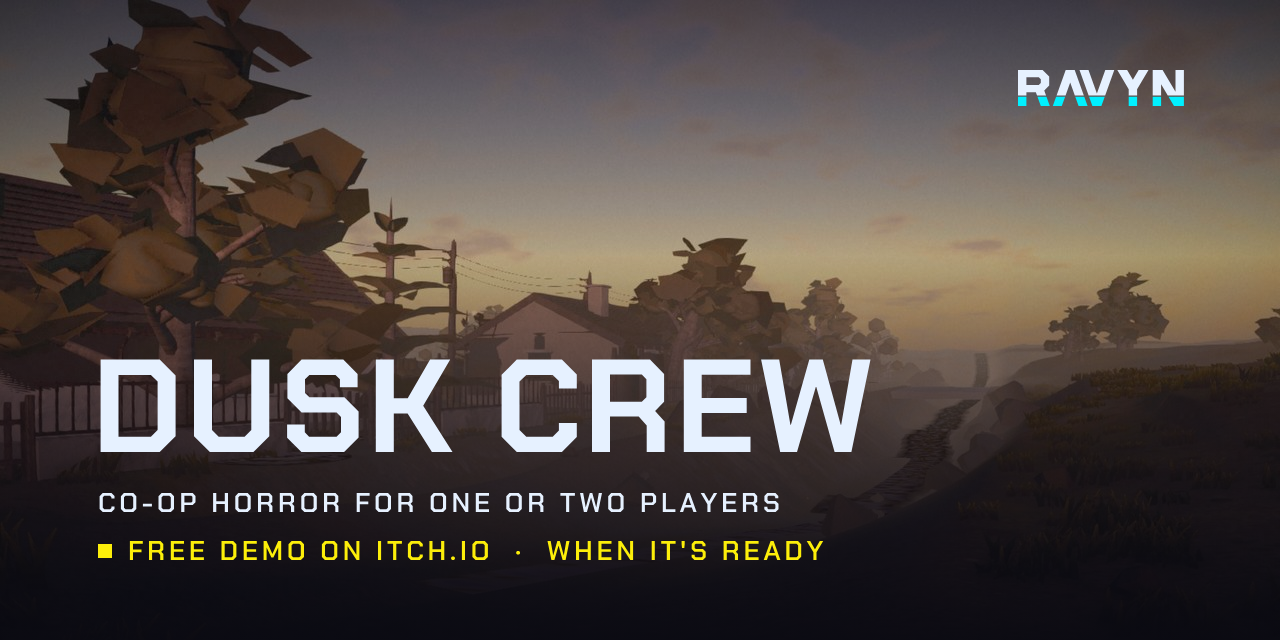
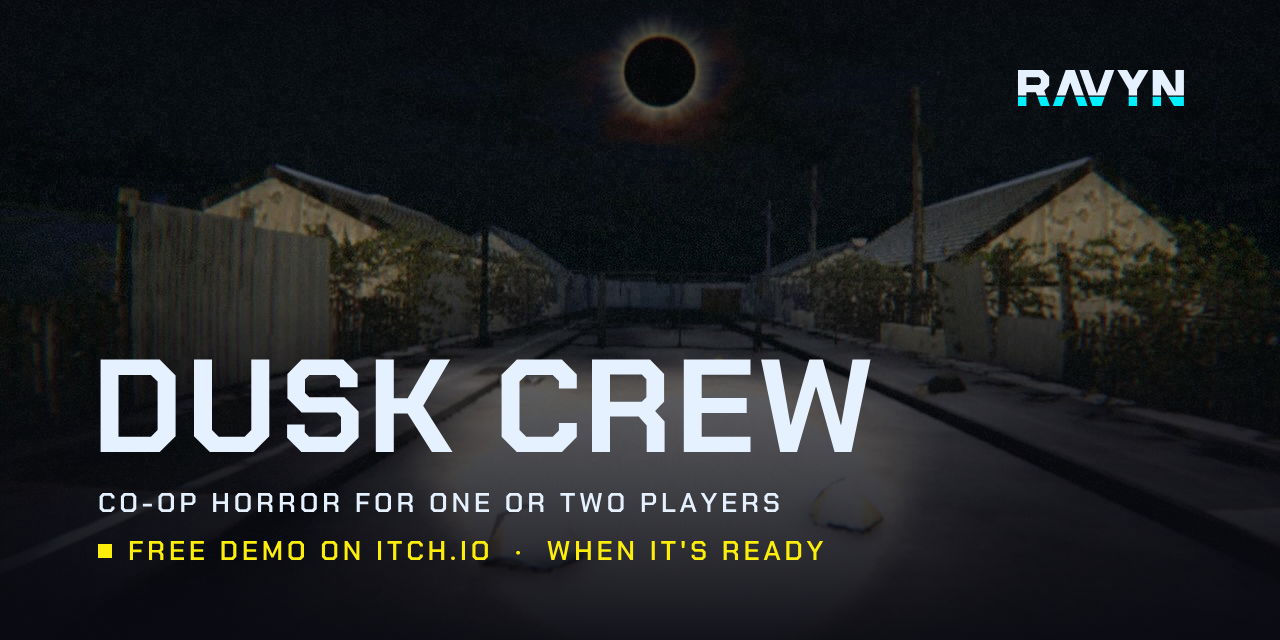
Showcase v2: clean WIP footage, night loop, system cards, spoiler zone, docs
Media is only post-sweep footage, checked frame by frame: no person, no old hands, no Tripo asset in frame. Pre-sweep stills removed. Diagrams and banners drawn in code.

diff --git a/README.md b/README.md
@@ -1,4 +1,4 @@
-<img src="media/shots/lookout.jpg" alt="Dusk Crew, work in progress: view over fields and a fence line toward the houses of the district at golden hour." width="100%">
+<img src="media/gif/hero.gif" alt="Dusk Crew, work-in-progress footage through the bodycam. A quiet street by day under a pale sky. Then a floating axe on a cyan beam chops a tree until wood chips fly. Then the same street at night, lit only by the pool of the crew's lamp, with a black moon overhead." width="100%">
 
 # Dusk Crew
 
@@ -6,46 +6,92 @@
 
 Every light in the valley went out. You are the line crew sent back to turn them on.<br>
 By day you build light. By night you walk out of it to bring people home.<br>
-Something is watching from the dark, and the people it takes do not stay gone.
+Something is watching from the dark.
 
-## Features
+## How a night works
 
-### Build by day, survive by night
+<img src="media/svg/how-a-night-works.svg" alt="How a night works, four steps that loop. Day: build and wire, light the lamps before the sun goes. Dusk: the light fades, something watches from the dark. Night: walk out of the light and bring people home. Dawn: back to the light, count who made it, then a new day." width="100%">
 
-Daylight is for work: fell trees, gather scrap, craft tools, and wire up lamp posts and a generator. When the sun goes, what you built is the only safe ground. You go out anyway, because people are sleepwalking in the dark and you are the crew that brings them home.
+## Systems
 
-<p>
-  <img src="media/shots/golden-hour.jpg" alt="A street at golden hour: a house, a tree and a creek running through low fog." width="410">
-  <img src="media/shots/black-moon.jpg" alt="The same street at night under a black moon with a thin white corona. The houses are barely lit." width="410">
-</p>
+### Light and dark
+
+<img src="media/gif/light-and-dark.gif" alt="The same street walked twice, side by side. On the left by day: bright road, houses and power lines. On the right by night: black sky and a black moon, the road visible only inside the lamp's pool." width="100%">
+
+The same street by day and by night. After dark, the light you carry and the lamps you build are the only safe ground.<br>
+Lamps throw pools of light with dark gaps between them. The gaps are where the fear lives.
+
+### The cabinet
+
+<img src="media/still/cabinet-panel.png" alt="Greybox test: an open electrical panel with a main switch, a fuse, two contactors and coloured wires to numbered terminals. A line on the panel reads: Game rules. Not instructions." width="100%">
+
+One player wires the panel with their back to the street. The other guards them with the lamp and reads the wiring list off the cuff, because the Wirer cannot see it. Get it right and the street lamps come on one after another.<br>
+**Footage coming:** the two-player take is next. This is a greybox still. The panel is game rules, not instructions.
+
+### The Kinetic Rig
+
+<img src="media/gif/kinetic-rig.gif" alt="First-person view at dusk. An axe floats on a cyan beam from the wrist cuff and strikes a tree by itself. Wood chips fly." width="100%">
+
+Your tools float on a beam from the wrist cuff. Send the axe off to fell a tree on its own, then lift the logs home with the same beam.<br>
+In development. Not in the friend-test build yet.
+
+### The bodycam
+
+<img src="media/gif/bodycam.gif" alt="The same night walk twice, side by side. Left: Standard, with grain, lens bend and head sway. Right: Comfort, calmer and steadier." width="100%">
+
+You see everything through the helmet camera: grain, lens bend, sway. Human faces are mosaicked, the way footage is censored before release.<br>
+Standard on the left. Comfort on the right, for players who want a steadier picture. Every effect has its own slider.
 
 ### The creature
 
-It watches first. At dusk you catch its eyes on a perch above the street, then nothing. It takes people in the gaps your light does not reach, and nothing you carry can kill it. Light is the only thing it respects.
+It is there from the first minute. It freezes when you look at it and moves when you look away.<br>
+It cannot enter light: not the lamp's beam, not a lit lamp post. It waits at the edge and goes for whoever is left in the dark. A teammate's beam drives it off. You cannot kill it.
+
+## Spoiler zone
+
+<img src="media/svg/spoiler-banner.svg" alt="Bodycam warning: a red REC dot, a running timecode and a stamp reading RESTRICTED FOOTAGE. Spoilers below: the creature's full look and the Returned. Content note: blood and gore, filtered by the bodycam." width="100%">
+
+<details>
+<summary>I've been warned. Show me.</summary>
+
+### The creature, stage 1
+
+<img src="media/spoiler/creature-stage1.png" alt="The creature's body as black silhouettes on white: front, three-quarter and top views. Low and wide on four long jointed legs, with two long feelers curving ahead of the head. Bottom right: the same shape at night in the game, 8 m away, against a white test card." width="100%">
+
+Stage 1 of the creature's body: the silhouette. Our own model, built by script, and the first stage to pass its review. Work in progress.<br>
+Its two feelers never stop. They sweep ahead, tap the walls and turn toward any sound you make. A close-up is coming.
 
 ### The Returned
 
-Anyone the creature takes can come back, and they come back wrong: black blades tear out of the body, and it hunts whoever watched it happen. Strong light melts the blades for about two seconds. That is your window to hit it. Then you burn what is left.
+The creature takes your partner. Later something walks back up the road in your partner's suit, one foot dragging, head too far to the side.<br>
+Close up, black blades tear out of the back and the arms. Hit it with the beam and the blades melt back for two seconds. That is your window.<br>
+Words only for now. Footage comes when there is a clean capture.
 
-Everything is seen through a helmet camera. Human faces are mosaicked, the way footage is censored before release. The creature's never is.
+</details>
 
-### Holo-print
+## On the drawing board
 
-Tools are printed, not drawn. The wrist cuff projects a grid, traces the tool as a wireframe line by line, fills it with voxels, and it lands in your hands as worn wood and steel.
+> Design only. None of this is built.
 
-### Kinetic Rig
+**MAKER.** Real electronics inside the game: boards, sensors, LEDs, relays, motors. What works in the game works for real. Every 5 V and 12 V circuit can be exported as a real wiring diagram, parts list and code. Anything that would not work for real is marked "game only". The mains side stays game rules, not instructions. Lights you build help but never solve the night: the creature only flinches at them.
 
-In development for the demo. Your tools float: a beam from the cuff tethers the axe beside you. Clench to strike. Flick to send it off to fell a tree on its own while you gather scrap. Lift the logs with the same beam and carry them home. It runs on a battery, and the creature can see its glow.
+<img src="media/svg/relay-vs-mosfet.svg" alt="Design only, not built. Two ways a MAKER build switches a load. Relay, for the AC side in the game: board pin, transistor, relay coil with a flyback diode across it; the contacts switch an AC lamp, and that side is game rules, not instructions. MOSFET, for DC loads: plus 12 volts, LED strip, N-channel MOSFET, ground; a board pin drives the gate, with a 10 kilo-ohm pull-down." width="100%">
 
-## Screenshots
-
-<p>
-  <img src="media/shots/dusk.jpg" alt="The same view minutes later: a pink and violet dusk sky, fog settling on the fields." width="820">
-</p>
+**LineNet.** An in-game network for the crew. It only works where you have restored the power.
 
 ## Devlog
 
-**20 Nov 2026 — Tools leave the hands.** First step of the Kinetic Rig: an axe floats on a tether from the cuff and lands its first strikes in a greybox test. Sending it off to work alone is next.
+**25 Nov 2026 — The creature's shape.** Stage 1 of its new body, the silhouette, passed its review. Next: its main forms.
+
+**25 Nov 2026 — The cabinet works with two.** In a two-player network test, one player wired and one read, and the panel came out the same on both machines. Joining late and a dropped Wirer both hold.
+
+**25 Nov 2026 — The bodycam look.** A fifth pass on the camera: grain, lens, light pools and the Comfort preset. Shown above as work in progress.
+
+**25 Nov 2026 — Holo-Glass HUD.** Still mock-ups of a HUD projected from the cuff, in five states, from a calm day to a dead battery. Nothing in the game yet.
+
+**25 Nov 2026 — Physical animation.** First tests of our own active ragdoll: dragging a downed teammate by the collar. Not there yet.
+
+**24 Nov 2026 — The rig at work.** One take: the axe prints, fells a tree on its own, and the beam lifts three logs home.
 
 **20 Nov 2026 — Holo-print.** Equipping a tool now prints it: grid, wireframe, voxels, then the real material.
 
@@ -57,14 +103,19 @@ In development for the demo. Your tools float: a beam from the cuff tethers the 
 
 **Developer:** RAVYN<br>
 **Genre:** First-person co-op horror<br>
-**Players:** 1–2. Online co-op with a room code, or solo with a bot teammate<br>
+**Players:** 1–2 in the demo. Online co-op with a room code, or solo with a bot teammate<br>
 **Platform:** Windows PC<br>
 **Engine:** Unity (URP), Photon PUN 2<br>
 **Demo:** Free on itch.io when it's ready<br>
-**Status:** In development. Footage is from work-in-progress builds and test captures, and will change
+**Status:** In development. Everything on this page is work in progress (WIP) and will change<br>
+**Footage:** full clips in the [Footage WIP release](https://github.com/ravynarchlab-source/dusk-crew-showcase/releases/tag/footage-wip)
+
+## More
+
+[How it plays](docs/HOW_IT_PLAYS.md) · [Systems](docs/systems/) · [Spoilers](docs/SPOILERS.md) · [Press](docs/PRESS.md) · [Credits](docs/CREDITS.md)
 
 ## Press
 
-You may use the images on this page in coverage of Dusk Crew. Please credit RAVYN.
+You may use the images and GIFs on this page in coverage of Dusk Crew. Please credit RAVYN. Details in [PRESS.md](docs/PRESS.md).
 
 Contact: [Discord — RAVYN: Riftfall](https://discord.gg/YMws83FPS) · [github.com/ravynarchlab-source](https://github.com/ravynarchlab-source)

diff --git a/docs/HOW_IT_PLAYS.md b/docs/HOW_IT_PLAYS.md
@@ -1,0 +1,37 @@
+# How Dusk Crew plays
+
+Work in progress. Everything here can change.
+
+<img src="../media/svg/how-a-night-works.svg" alt="How a night works, four steps that loop. Day: build and wire, light the lamps before the sun goes. Dusk: the light fades, something watches from the dark. Night: walk out of the light and bring people home. Dawn: back to the light, count who made it, then a new day." width="100%">
+
+## The crew
+
+You are a line crew: the people who keep the power on. One night every light in the valley went out. You were sent back to turn them on. Play with one friend online, or alone with a bot teammate.
+
+## Day: build and wire
+
+Daylight is for work. Fell trees, gather scrap, print tools from the wrist cuff, and wire lamps to the grid. What you build in the day decides how much of the night you can use.
+
+<img src="../media/gif/kinetic-rig.gif" alt="First-person view at dusk. An axe floats on a cyan beam from the wrist cuff and strikes a tree by itself. Wood chips fly." width="100%">
+
+## Dusk: something watches
+
+The light fades. Far out past the lamps, something is watching. It freezes when you look at it and moves when you look away.
+
+## Night: walk out of the light
+
+People are sleepwalking in the dark. You go out to bring them home. The lamp you carry and the lamps you built are the only safe ground. Between the pools of light the street stays dark.
+
+<img src="../media/gif/light-and-dark.gif" alt="The same street walked twice, side by side. On the left by day: bright road, houses and power lines. On the right by night: black sky and a black moon, the road visible only inside the lamp's pool." width="100%">
+
+Stay together. Whoever is left in the dark is the one it goes for. A teammate's beam drives it off.
+
+## Dawn: count who made it
+
+Back in the light, the morning shows who made it home. Then a new day starts.
+
+## Through the bodycam
+
+Everything is seen through the helmet camera. Human faces are mosaicked. Comfort settings calm the picture down. See [The bodycam](systems/BODYCAM.md).
+
+More: [Light and dark](systems/LIGHT_AND_DARK.md) · [The cabinet](systems/THE_CABINET.md) · [The Kinetic Rig](systems/KINETIC_RIG.md) · [The bodycam](systems/BODYCAM.md)

diff --git a/docs/SPOILERS.md b/docs/SPOILERS.md
@@ -1,0 +1,31 @@
+# Spoilers
+
+<img src="../media/svg/spoiler-banner.svg" alt="Bodycam warning: a red REC dot, a running timecode and a stamp reading RESTRICTED FOOTAGE. Spoilers below: the creature's full look and the Returned. Content note: blood and gore, filtered by the bodycam." width="100%">
+
+**Content note:** Dusk Crew has blood and gore. The bodycam filters the worst of it with a mosaic.
+
+This page shows the creature's body and describes the Returned. If you want to meet them in the game first, stop here.
+
+<details>
+<summary>I've been warned. Show me.</summary>
+
+## The creature
+
+<img src="../media/spoiler/creature-stage1.png" alt="The creature's body as black silhouettes on white: front, three-quarter and top views. Low and wide on four long jointed legs, with two long feelers curving ahead of the head. Bottom right: the same shape at night in the game, 8 m away, against a white test card." width="100%">
+
+- Stage 1 of its body: the silhouette. Our own model, built by script. Work in progress.
+- Low and wide on four long legs. It rises to full height only to strike.
+- Two feelers that never stop. They sweep ahead, tap walls, doors and the ground, and swing toward any sound you make. A brush from a feeler means it felt something. You have about a second.
+- Its eyes are the only thing you see from far away.
+- The creature is never mosaicked. Human faces always are.
+
+## The Returned
+
+- The creature can take your partner. Later something walks back up the road in your partner's suit, one foot dragging, head too far to the side.
+- Close up, black blades tear out of the back and the arms.
+- Hit it full with the lamp's beam and the blades melt back for two seconds. That is your window to hit it.
+- Words only for now. Footage comes when there is a clean capture.
+
+</details>
+
+[Back to the page](../README.md)

diff --git a/docs/CREDITS.md b/docs/CREDITS.md
@@ -1,0 +1,33 @@
+# Credits
+
+Dusk Crew is made by RAVYN.
+
+## Our own work
+
+Models, animation, shaders, effects and interface are built by our own scripts and code. No generative-model output (image, 3D, audio or voice generators) is used anywhere in the game or on this page.
+
+## Free sources used in the game
+
+Each file is logged with its source and licence in the project's licence register.
+
+| Source | What | Licence |
+|---|---|---|
+| [Kenney](https://kenney.nl/assets) | Sound effects | CC0 1.0 |
+| [OpenGameArt](https://opengameart.org) | Sound effects (CC0 files only) | CC0 1.0 |
+| [Poly Haven](https://polyhaven.com) | Textures | CC0 1.0 |
+| [Quaternius](https://quaternius.com) | Base character bodies, re-dressed and re-rigged by us | CC0 1.0 |
+| [Freesound](https://freesound.org) | Ambience and machine recordings (CC0 files) | CC0 1.0 |
+
+One recording is not CC0. While it is in the game it is credited here:
+
+- "Wet mud footsteps" by InspectorJ ([freesound.org/s/329604](https://freesound.org/s/329604/)), [CC BY 4.0](https://creativecommons.org/licenses/by/4.0/), trimmed and processed.
+
+CC0 needs no credit. We list the sources anyway.
+
+## This page
+
+- Footage and stills: captured from work-in-progress builds of Dusk Crew.
+- Diagrams, the spoiler banner and "How a night works": drawn in code by RAVYN.
+- Type: [Chakra Petch](https://fonts.google.com/specimen/Chakra+Petch) by Cadson Demak, SIL Open Font License 1.1.
+
+[Back to the page](../README.md)

diff --git a/docs/PRESS.md b/docs/PRESS.md
@@ -1,0 +1,31 @@
+# Press
+
+**Dusk Crew** is a first-person co-op horror game by RAVYN, for one or two players, on Windows PC. A free demo comes to itch.io when it is ready. There is no fixed date.
+
+## Use of media
+
+You may use the images, GIFs and clips on this page and in the [Footage WIP release](https://github.com/ravynarchlab-source/dusk-crew-showcase/releases/tag/footage-wip) in coverage of Dusk Crew. Please credit RAVYN.
+
+- Everything is work in progress (WIP) and will change.
+- Spoilers are kept behind a warning. Please keep the creature's look and the Returned out of headlines and thumbnails.
+- The footage has no sound.
+
+## Short description
+
+Every light in the valley went out. You are the line crew sent back to turn them on. By day you build light. By night you walk out of it to bring people home. Something is watching from the dark.
+
+## Fact sheet
+
+**Developer:** RAVYN<br>
+**Genre:** First-person co-op horror<br>
+**Players:** 1–2 in the demo. Online co-op with a room code, or solo with a bot teammate<br>
+**Platform:** Windows PC<br>
+**Engine:** Unity (URP), Photon PUN 2<br>
+**Demo:** Free on itch.io when it's ready<br>
+**Status:** In development
+
+## Contact
+
+[Discord — RAVYN: Riftfall](https://discord.gg/YMws83FPS) · [github.com/ravynarchlab-source](https://github.com/ravynarchlab-source)
+
+[Back to the page](../README.md)

diff --git a/docs/systems/THE_CABINET.md b/docs/systems/THE_CABINET.md
@@ -1,0 +1,16 @@
+# The cabinet
+
+Work in progress. Greybox. Two-player footage is coming.
+
+<img src="../../media/still/cabinet-panel.png" alt="Greybox test: an open electrical panel with a main switch, a fuse, two contactors and coloured wires to numbered terminals. A line on the panel reads: Game rules. Not instructions." width="100%">
+
+The street lamps run from a cabinet on the corner. Fix it and the lights come back.
+
+- **The Wirer** opens the panel. The view locks to the box, back to the street. They switch the main breaker off, then move the wires.
+- **The Guard** stands behind with the lamp and reads the wiring list off the cuff. The Wirer cannot see that list, so you have to talk: "Where does Plum go?" "Four. Slot d."
+- Close the breaker on a wrong wire and the panel arcs.
+- Get it right and the street lamps come on, one after another, down the street.
+
+Game rules. Not instructions. The panel is a puzzle, not a guide to real electrical work.
+
+[Back to the page](../../README.md)

diff --git a/docs/systems/LIGHT_AND_DARK.md b/docs/systems/LIGHT_AND_DARK.md
@@ -1,0 +1,13 @@
+# Light and dark
+
+Work in progress.
+
+<img src="../../media/gif/light-and-dark.gif" alt="The same street walked twice, side by side. On the left by day: bright road, houses and power lines. On the right by night: black sky and a black moon, the road visible only inside the lamp's pool." width="100%">
+
+- By day the valley is safe and you build.
+- At night the only safe ground is light: the lamp the crew carries and the lamp posts you wired up.
+- Lamps throw pools of light. Between them the street stays dark. The gaps are where the fear lives.
+- One lamp is handed between players. The moment it changes hands is the most dangerous second of the night.
+- Whatever hunts in the dark cannot enter light. It waits at the edge.
+
+[Back to the page](../../README.md)

diff --git a/docs/systems/BODYCAM.md b/docs/systems/BODYCAM.md
@@ -1,0 +1,13 @@
+# The bodycam
+
+Work in progress.
+
+<img src="../../media/gif/bodycam.gif" alt="The same night walk twice, side by side. Left: Standard, with grain, lens bend and head sway. Right: Comfort, calmer and steadier." width="100%">
+
+- You see the whole game through the helmet camera: grain, lens bend, head sway, a REC overlay.
+- Human faces are mosaicked, the way footage is censored before release.
+- Gore is filtered the same way: the camera blocks it.
+- **Standard** is the authored look. **Comfort** is calmer and steadier.
+- Each effect has its own slider: sway, lens bend, grain, shake, motion blur (off by default) and field of view.
+
+[Back to the page](../../README.md)

diff --git a/docs/systems/KINETIC_RIG.md b/docs/systems/KINETIC_RIG.md
@@ -1,0 +1,12 @@
+# The Kinetic Rig
+
+Work in progress. In development, not in the friend-test build yet.
+
+<img src="../../media/gif/kinetic-rig.gif" alt="First-person view at dusk. An axe floats on a cyan beam from the wrist cuff and strikes a tree by itself. Wood chips fly." width="100%">
+
+- Tools are printed from the wrist cuff: a grid, a wireframe, voxels, then wood and steel.
+- The tool floats beside you on a cyan beam.
+- Send the axe off to fell a tree on its own while you gather scrap.
+- Lift the logs with the same beam and carry them home.
+
+[Back to the page](../../README.md)
